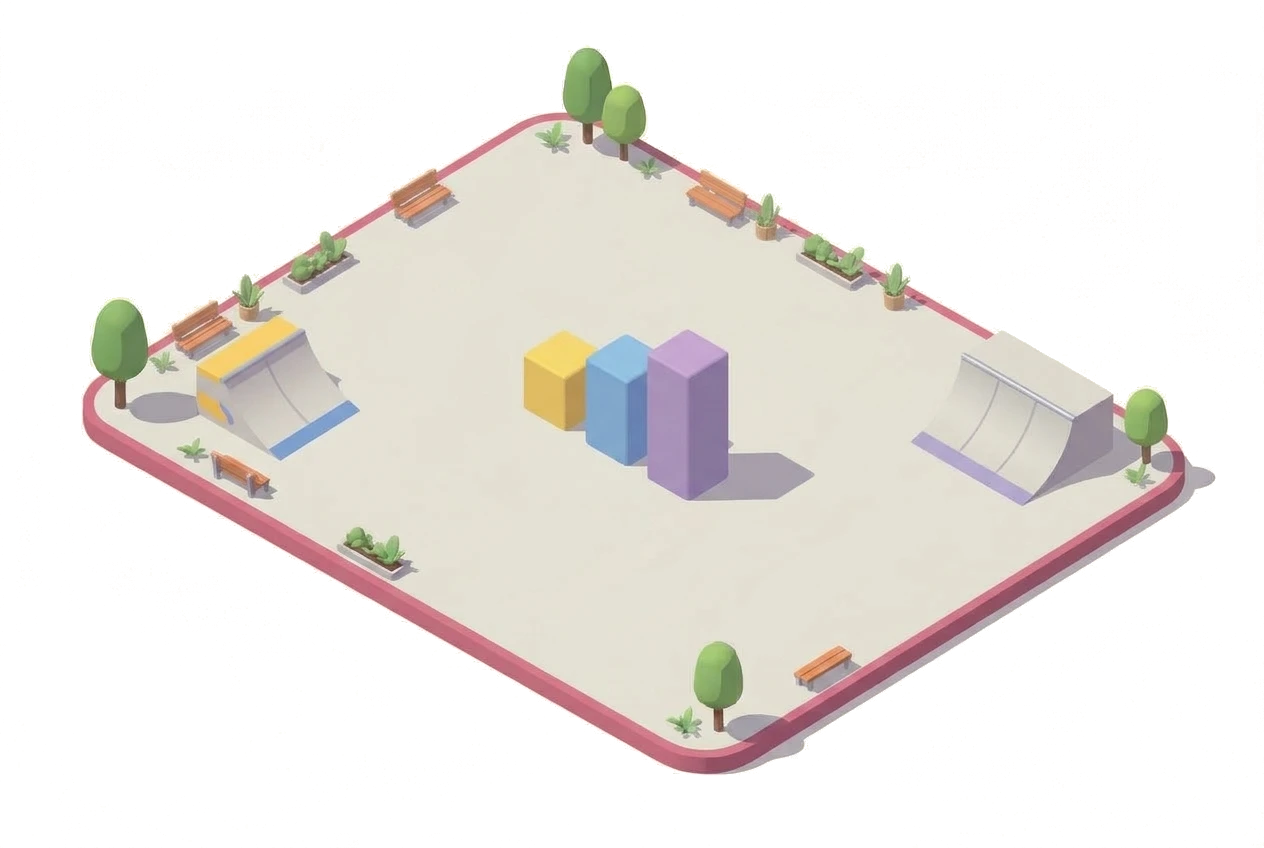
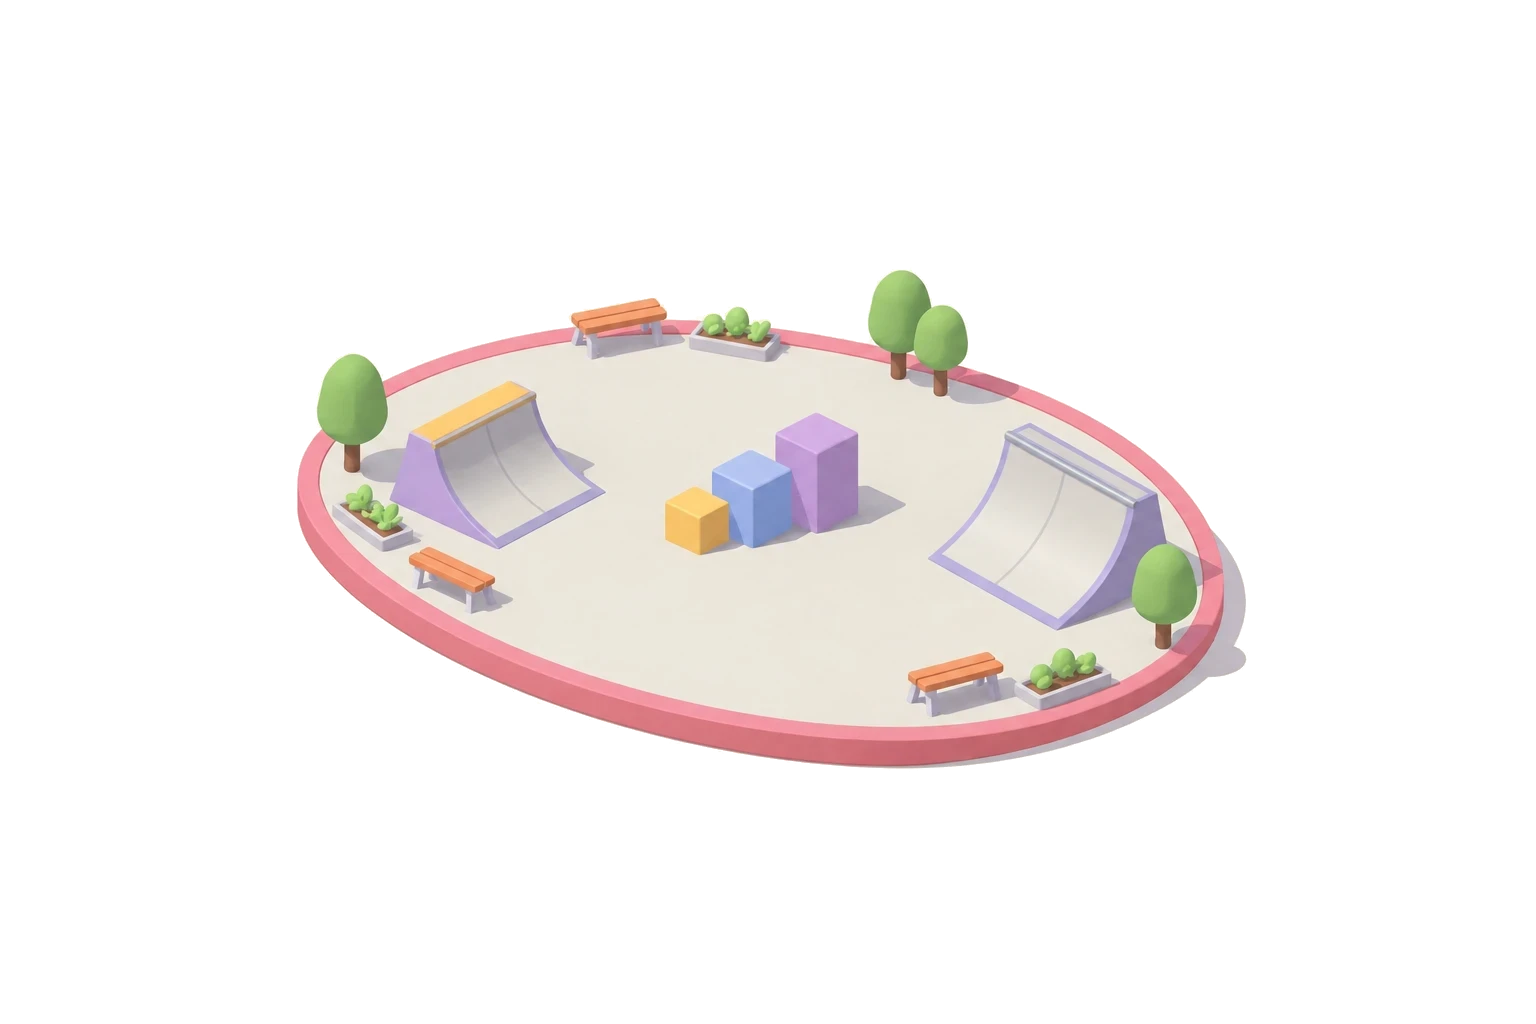
Map: chapter 10 moves to a smaller oval plaza drawn by a second image AI
cut.html takes a per-zone `file` so a park picture can be .webp.

Changed region(s): [[0.0617, 0.0613, 0.9565, 0.9198]]

diff --git a/shared/parks.js b/shared/parks.js
@@ -1,3 +1,3 @@
 // Generated by tools/cut.html (do not edit by hand): where each skate park stop layer sits on its zone's base picture.
 // All numbers are % of the base image width (l, w, gx, tile) or height (t, h, gy); aspect = width / height.
-window.PARK_LAYOUT = {"ramps":{"aspect":1.4906,"tile":5,"stops":[{"l":11.08,"t":34.2,"w":11.95,"h":17.81,"gx":20.17,"gy":53.07},{"l":24.76,"t":28.42,"w":12.03,"h":12.85,"gx":31.65,"gy":42.45},{"l":36,"t":12.03,"w":15.82,"h":18.4,"gx":44.3,"gy":31.25},{"l":48.5,"t":23.58,"w":22.71,"h":21.82,"gx":60.13,"gy":46.58},{"l":36.16,"t":37.5,"w":12.74,"h":12.5,"gx":41.93,"gy":50.94},{"l":26.82,"t":52,"w":15.43,"h":14.74,"gx":34.81,"gy":68.4},{"l":42.17,"t":72.76,"w":12.42,"h":10.38,"gx":48.26,"gy":83.96},{"l":62.58,"t":60.38,"w":15.66,"h":13.21,"gx":68.83,"gy":74.29}]},"rails":{"aspect":1.4906,"tile":5,"stops":[{"l":22.39,"t":25.47,"w":14.79,"h":15.21,"gx":29.27,"gy":38.92},{"l":36.87,"t":37.26,"w":22.07,"h":21.11,"gx":46.28,"gy":58.37},{"l":51.03,"t":27,"w":18.75,"h":17.81,"gx":58.94,"gy":45.4},{"l":61.71,"t":53.66,"w":17.41,"h":18.75,"gx":68.04,"gy":72.52}]},"bowl":{"aspect":1.4906,"tile":5,"stops":[{"l":12.66,"t":36.44,"w":11.55,"h":15.21,"gx":21.36,"gy":51.89},{"l":26.19,"t":48.23,"w":19.3,"h":20.99,"gx":36,"gy":70.17},{"l":46.52,"t":68.4,"w":12.03,"h":13.56,"gx":51.42,"gy":82.55},{"l":60.36,"t":57.67,"w":15.82,"h":14.27,"gx":67.25,"gy":72.52},{"l":34.41,"t":28.42,"w":35.13,"h":31.72,"gx":53.01,"gy":55.42},{"l":73.89,"t":43.28,"w":14.08,"h":16.63,"gx":77.14,"gy":60.38}]},"boxes":{"aspect":1.4906,"tile":5,"stops":[{"l":29.75,"t":29.48,"w":12.9,"h":12.62,"gx":35.6,"gy":43.4},{"l":27.06,"t":52.12,"w":15.19,"h":15.09,"gx":37.97,"gy":68.99},{"l":40.59,"t":41.86,"w":17.33,"h":16.39,"gx":48.26,"gy":59.2},{"l":59.18,"t":56.72,"w":13.61,"h":16.86,"gx":62.5,"gy":75.47},{"l":71.91,"t":41.75,"w":16.53,"h":18.16,"gx":75.95,"gy":61.32}]},"plaza":{"aspect":1.4906,"tile":5,"stops":[{"l":15.03,"t":36.79,"w":13.61,"h":17.69,"gx":23.73,"gy":55.66},{"l":41.14,"t":38.56,"w":17.01,"h":20.87,"gx":49.05,"gy":60.38},{"l":71.91,"t":41.75,"w":16.53,"h":18.16,"gx":75.95,"gy":61.32}]}};
+window.PARK_LAYOUT = {"ramps":{"aspect":1.4906,"tile":5,"stops":[{"l":11.08,"t":34.2,"w":11.95,"h":17.81,"gx":20.17,"gy":53.07},{"l":24.76,"t":28.42,"w":12.03,"h":12.85,"gx":31.65,"gy":42.45},{"l":36,"t":12.03,"w":15.82,"h":18.4,"gx":44.3,"gy":31.25},{"l":48.5,"t":23.58,"w":22.71,"h":21.82,"gx":60.13,"gy":46.58},{"l":36.16,"t":37.5,"w":12.74,"h":12.5,"gx":41.93,"gy":50.94},{"l":26.82,"t":52,"w":15.43,"h":14.74,"gx":34.81,"gy":68.4},{"l":42.17,"t":72.76,"w":12.42,"h":10.38,"gx":48.26,"gy":83.96},{"l":62.58,"t":60.38,"w":15.66,"h":13.21,"gx":68.83,"gy":74.29}]},"rails":{"aspect":1.4906,"tile":5,"stops":[{"l":22.39,"t":25.47,"w":14.79,"h":15.21,"gx":29.27,"gy":38.92},{"l":36.87,"t":37.26,"w":22.07,"h":21.11,"gx":46.28,"gy":58.37},{"l":51.03,"t":27,"w":18.75,"h":17.81,"gx":58.94,"gy":45.4},{"l":61.71,"t":53.66,"w":17.41,"h":18.75,"gx":68.04,"gy":72.52}]},"bowl":{"aspect":1.4906,"tile":5,"stops":[{"l":12.66,"t":36.44,"w":11.55,"h":15.21,"gx":21.36,"gy":51.89},{"l":26.19,"t":48.23,"w":19.3,"h":20.99,"gx":36,"gy":70.17},{"l":46.52,"t":68.4,"w":12.03,"h":13.56,"gx":51.42,"gy":82.55},{"l":60.36,"t":57.67,"w":15.82,"h":14.27,"gx":67.25,"gy":72.52},{"l":34.41,"t":28.42,"w":35.13,"h":31.72,"gx":53.01,"gy":55.42},{"l":73.89,"t":43.28,"w":14.08,"h":16.63,"gx":77.14,"gy":60.38}]},"boxes":{"aspect":1.4906,"tile":5,"stops":[{"l":29.75,"t":29.48,"w":12.9,"h":12.62,"gx":35.6,"gy":43.4},{"l":27.06,"t":52.12,"w":15.19,"h":15.09,"gx":37.97,"gy":68.99},{"l":40.59,"t":41.86,"w":17.33,"h":16.39,"gx":48.26,"gy":59.2},{"l":59.18,"t":56.72,"w":13.61,"h":16.86,"gx":62.5,"gy":75.47},{"l":71.91,"t":41.75,"w":16.53,"h":18.16,"gx":75.95,"gy":61.32}]},"plaza":{"aspect":1.5,"tile":5,"stops":[{"l":26.43,"t":37.01,"w":13.15,"h":16.8,"gx":36.46,"gy":54.88},{"l":43.1,"t":40.14,"w":14.19,"h":14.36,"gx":48.18,"gy":56.15},{"l":60.29,"t":41.11,"w":15.89,"h":20.7,"gx":64.13,"gy":60.35}]}};

diff --git a/tools/cut.html b/tools/cut.html
@@ -43,12 +43,11 @@ const ZONES = {
     { box: [905, 322, 1118, 510], ground: [960, 520], skip: [[900, 318, 962, 405], [1100, 318, 1120, 388]],   // big quarter pipe, far end (9.5 test; rim behind)
       poly: [[965, 356], [1110, 395], [1035, 502], [914, 432]] },
   ] },
-  plaza: { tile: 5, stops: [                                       // chapter 10, the plaza (raspberry rim)
-    { box: [190, 312, 362, 462], ground: [300, 472], skip: [[185, 300, 232, 340], [225, 300, 262, 327], [262, 300, 276, 322]],   // yellow quarter pipe, left (bench + pot behind)
-      poly: [[232, 378], [302, 332], [358, 402], [272, 458]] },
-    { box: [515, 322, 735, 505], ground: [620, 512] },             // three boxes like a bar chart, middle
-    { box: [905, 322, 1118, 510], ground: [960, 520], skip: [[1100, 318, 1120, 388]],   // big quarter pipe, right (10.3 test)
-      poly: [[965, 356], [1110, 395], [1035, 502], [914, 432]] },
+  // chapter 10, the small oval plaza (raspberry rim), drawn by a second image AI on 2026-11-01 (1536x1024 webp)
+  plaza: { tile: 5, file: 'plaza.webp', stops: [
+    { box: [388, 375, 610, 552], ground: [560, 562], skip: [[330, 485, 412, 556], [386, 425, 408, 520]] },   // yellow-topped quarter pipe, left (planter, tree shadow)
+    { box: [655, 405, 880, 560], ground: [740, 575] },             // three boxes like a bar chart, middle
+    { box: [925, 420, 1170, 634], ground: [985, 618], skip: [[1140, 543, 1202, 625], [1132, 560, 1140, 610], [1153, 618, 1176, 656]] },   // big quarter pipe, right (10.3 test; tree in front)
   ] },
 };
 
@@ -60,7 +59,7 @@ const q = new URLSearchParams(location.search);
 (async () => {
   for (const [zone, cfg] of Object.entries(ZONES)) {
     if (q.get('zone') && q.get('zone') !== zone) continue;
-    const img = await load(`/incoming/${zone}.jpg?${Date.now()}`), W = img.width, H = img.height;
+    const img = await load(`/incoming/${cfg.file || zone + '.jpg'}?${Date.now()}`), W = img.width, H = img.height;
     const cv = Object.assign(document.createElement('canvas'), { width: W, height: H }), cx = cv.getContext('2d', { willReadFrequently: true });
     cx.drawImage(img, 0, 0);
     const src = cx.getImageData(0, 0, W, H), px = src.data;

diff --git a/tools/ART-STYLE.md b/tools/ART-STYLE.md
@@ -36,5 +36,6 @@ Made for a children's learning app: friendly, clean, not busy.
 - AI often miscounts objects. Extra pieces are fine: Claude uses them as decoration.
 - Download the **largest size** offered (Upscale if there is a button). 1264px wide is the minimum.
 - Keep one chat for a set of pictures, so the style stays the same.
+- Switching to another image AI works (ch10 oval plaza, 2026-11-01): attach 3 parks as reference, start with "Redraw the LAST attached image ... match camera angle, object scale, lighting", and ask for simple shapes (oval, L). "Bean shape" was ignored. A .webp or other size is fine: set `file` for the zone in `tools/cut.html`.
 - For a title or poster scene (like the home page `tools/incoming/hero.webp`), skip the floor or island. Float big, bold objects around an empty middle; they don't need real scale. ChatGPT gave the best result for this.
 - Attach `tools/incoming/hero.webp` as the style reference for cute stand-alone objects. Attach `ramps.jpg` for whole parks.

diff --git a/DESIGN.md b/DESIGN.md
@@ -20,7 +20,7 @@ Pictures have their own guide in `tools/ART-STYLE.md`, with the prompt block for
 | `--ink` #2B2620 | text only |
 | `--muted` #6F6656 | hints, small print |
 | `--green` / `--blue` / `--orange` | cake slices, as in the textbook |
-| chapter colours on the map | ch6 `--red`, ch7 `--yellow-deep`, ch8 `--blue`, ch9 `--green`, ch10 `--pink` (#D9577E); each park picture has its own rim colour to match (ch9 green L-shape, ch10 raspberry) |
+| chapter colours on the map | ch6 `--red`, ch7 `--yellow-deep`, ch8 `--blue`, ch9 `--green`, ch10 `--pink` (#D9577E); each park picture has its own rim colour to match (ch9 green L-shape, ch10 raspberry oval) |
 | `--good` / `--bad` (+ `-soft`) | right / wrong feedback |
 
 There is only a light look; no dark mode.
